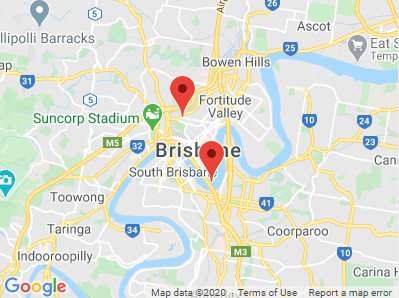
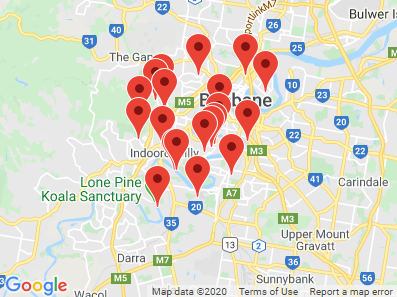
Updated examples and package version

diff --git a/example/ExampleMarker.vue b/example/ExampleMarker.vue
@@ -5,22 +5,29 @@
     </template>
     <template #map>
       <gmaps-map :options="mapOptions">
-        <gmaps-marker :options="optionsA" />
-        <gmaps-marker :options="optionsB" />
+        <gmaps-marker v-for="(item, i) in items" :key="i" :options="item.options" />
       </gmaps-map>
     </template>
     <template #code>
       <div>
         <pre>
-&lt;gmaps-map lat="-27.47" lng="153.025" zoom="14">
-  &lt;gmaps-marker :options="optionsA" />
-  &lt;gmaps-marker :options="optionsB" />
+&lt;gmaps-map>
+  &lt;gmaps-marker
+    v-for="(item, i) in items"
+    :key="i"
+    :options="item.options"
+  />
 &lt;/gmaps-map>
 
 ...
 
-optionsA = { position: { lat: -27.46, lng: 153.02 } }
-optionsB = { position: { lat: -27.48, lng: 153.03 } }
+items = [
+  { options: { position: { lat: -27.41, lng: 153.01 } } },
+  { options: { position: { lat: -27.42, lng: 153.02 } } },
+  ...,
+  { options: { position: { lat: -27.48, lng: 153.08 } } },
+  { options: { position: { lat: -27.49, lng: 153.09 } } },
+]
           </pre
         >
       </div>
@@ -37,8 +44,8 @@ export default {
   components: { ExampleWrapper, gmapsMap, gmapsMarker },
   data: () => ({
     mapOptions: {
-      center: { lat: -27.47, lng: 153.025 },
-      zoom: 12,
+      center: { lat: -27.5, lng: 153 },
+      zoom: 11,
       fullscreenControl: false,
       mapTypeControl: false,
       rotateControl: false,
@@ -46,8 +53,18 @@ export default {
       streetViewControl: false,
       zoomControl: false
     },
-    optionsA: { position: { lat: -27.46, lng: 153.02 } },
-    optionsB: { position: { lat: -27.48, lng: 153.03 } }
-  })
+    items: []
+  }),
+  created() {
+    for (let i = 0; i < 20; i++)
+      this.items.push({
+        options: {
+          position: {
+            lat: -27.5 + Math.random() / 10 - 0.05,
+            lng: 153 + Math.random() / 10 - 0.05
+          }
+        }
+      })
+  }
 }
 </script>

diff --git a/example/ExampleMap.vue b/example/ExampleMap.vue
@@ -6,19 +6,12 @@
       </p>
     </template>
     <template #map>
-      <gmaps-map :options="mapOptions" />
+      <gmaps-map />
     </template>
     <template #code>
       <div>
         <pre>
-&lt;gmaps-map :options="mapOptions"/>
-
-...
-
-mapOptions = {
-    center: { lat: -27.47, lng: 153.025 },
-    zoom: 12
-}
+&lt;gmaps-map />
           </pre
         >
       </div>
@@ -32,12 +25,6 @@ import { gmapsMap } from '../dist'
 
 export default {
   name: 'ExampleMap',
-  components: { ExampleWrapper, gmapsMap },
-  data: () => ({
-    mapOptions: {
-      center: { lat: -27.47, lng: 153.025 },
-      zoom: 12
-    }
-  })
+  components: { ExampleWrapper, gmapsMap }
 }
 </script>

diff --git a/example/ExampleInfoWindow.vue b/example/ExampleInfoWindow.vue
@@ -28,7 +28,7 @@
     <template #code>
       <div>
         <pre>
-&lt;gmaps-map :options="mapOptions">
+&lt;gmaps-map>
   &lt;gmaps-info-window :options="optionsA">
     &lt;p>
       Any &lt;span style="background:yellow;">HTML&lt;/span> can&lt;br />go in

diff --git a/example/ExamplePopup.vue b/example/ExamplePopup.vue
@@ -25,7 +25,7 @@
     <template #code>
       <div>
         <pre>
-&lt;gmaps-map :options="mapOptions">
+&lt;gmaps-map>
   &lt;gmaps-popup
     :position="{ lat: -27.46, lng: 153.02 }"
     background="#BBF0FF">

diff --git a/example/ExampleMarkerOptions.vue b/example/ExampleMarkerOptions.vue
@@ -20,7 +20,7 @@
     <template #code>
       <div>
         <pre>
-&lt;gmaps-map :options="mapOptions" />
+&lt;gmaps-map />
   &lt;gmaps-marker
     :options="optionsA"
     @positionChanged="updatePosition"

diff --git a/README.md b/README.md
@@ -56,9 +56,15 @@ Some pre-built components have been provided for general use, or as examples for
 
 ![Map](./example/img/map.png)
 
-Maps can take many [options](https://developers.google.com/maps/documentation/javascript/reference/map#MapOptions), but `zoom` and `center` options are required.
+Maps can take many [options](https://developers.google.com/maps/documentation/javascript/reference/map#MapOptions). `zoom` is defaulted to `12` and `center` is defaulted to Brisbane (as these options are required).
 
-This component supports `@boundsChanged` and `@centerChanged` events and return their new values.
+This component supports the following events:
+
+- `@boundsChanged` _returns new bounds_
+- `@centerChanged` _returns new center_
+- `@click` _returns event_
+- `@doubleClick` _returns event_
+- `@rightClick` _returns event_
 
 ```html
 <template>
@@ -86,12 +92,17 @@ This component supports `@boundsChanged` and `@centerChanged` events and return 
 
 Markers are placed within Maps and can take many [options](https://developers.google.com/maps/documentation/javascript/reference/marker#MarkerOptions). A `position` option is required.
 
-This component supports `@click` *(which returns the event)* and `@positionChanged` events *(which returns the new position)*.
+This component supports the following events:
+
+- `@positionChanged` _returns new position_
+- `@click` _returns event_
+- `@doubleClick` _returns event_
+- `@rightClick` _returns event_
 
 ```html
 <template>
-  <gmaps-map :options="mapOptions" ref="map">
-    <gmaps-marker :options="options" />
+  <gmaps-map>
+    <gmaps-marker v-for="(item, i) in items" :key="i" :options="item.options" />
   </gmaps-map>
 </template>
 
@@ -101,13 +112,13 @@ This component supports `@click` *(which returns the event)* and `@positionChang
   export default {
     components: { gmapsMap, gmapsMarker },
     data: () => ({
-      options: {
-        position: { lat: -27.46, lng: 153.02 },
-      },
-      mapOptions: {
-        center: { lat: -27.47, lng: 153.025 },
-        zoom: 12,
-      },
+      items: [
+        { options: { position: { lat: -27.41, lng: 153.01 } } },
+        { options: { position: { lat: -27.42, lng: 153.02 } } },
+        ...,
+        { options: { position: { lat: -27.48, lng: 153.08 } } },
+        { options: { position: { lat: -27.49, lng: 153.09 } } },
+      ],
     }),
   }
 </script>
@@ -121,7 +132,7 @@ InfoWindows are placed with Maps can take a few [options](https://developers.goo
 
 They are used to put HTML in and have a close/dismiss button built-in.
 
-This component only supports a `@closed` event *(for when someone closes the window)*
+This component only supports a `@closed` event _(for when someone closes the window)_
 
 ```html
 <template>
@@ -157,6 +168,7 @@ This component only supports a `@closed` event *(for when someone closes the win
 A Popup is a custom [DOM Element](https://developers.google.com/maps/documentation/javascript/reference/overlay-view). It is here primarily as an example of what is needed when creating your own map objects, but serves as a cleaner InfoWindow for Vue.
 
 It takes the following props:
+
 - `position` (req'd)
 - `background` (style)
 - `height` (style)
